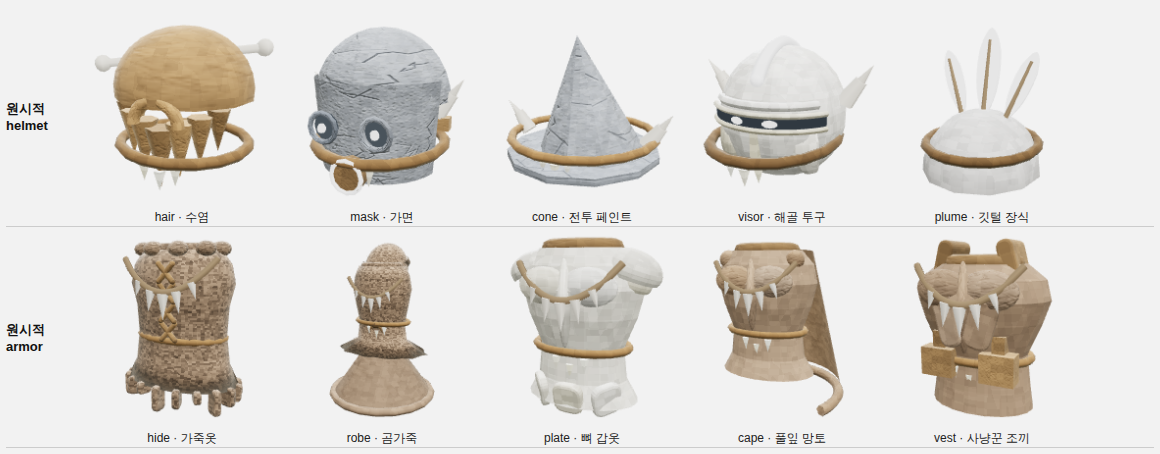
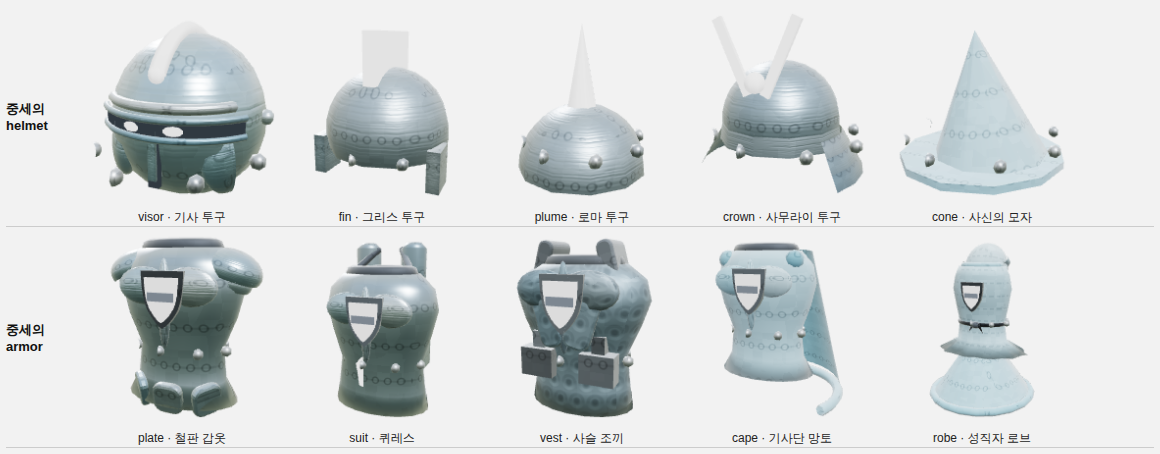
사슬 조끼를 리벳 프린트에서 메일 고리 직물로 — 물질 전용 무늬 키(ageShade 3인자) 신설, 엇갈린 고리+틈 그늘+윗호 하이라이트, 사슬 몸통 어둡게(판금과 명도 분리) (equip-era-theming)

diff --git a/web/js/scene3d.js b/web/js/scene3d.js
@@ -3893,6 +3893,11 @@ const Scene3D = {
         brass: { mode: 'panel', freq: 13, amp: 0.22, vary: 0.040, vfreq: 20 },   // 황동: 각인 격자
         polymer: { mode: 'panel', freq: 10, amp: 0.18, vary: 0.040, vfreq: 20 },   // 폴리머: 패널 심
         alloy: { mode: 'panel', freq: 12, amp: 0.24, vary: 0.040, vfreq: 20, glow: 0x9fe8ff }, // 합금: 심에 냉광
+        // 사슬(물질 'chain' 전용 — 계열 키가 아니라 **무늬 키**로만 쓰인다, ageShade 3번째 인자):
+        // 종전엔 chain 몸통이 계열(forged)의 리벳 무늬를 그대로 물어 '동그라미 한 줄 프린트'로
+        // 읽혔다(1차 채점 B). 사슬은 리벳이 아니라 **엇갈린 고리들이 맞물린 직물**이다 — 행마다
+        // 반 칸 어긋난 고리 + 고리 사이 틈 그늘 + 고리 윗호 하이라이트가 메일의 서명.
+        chain: { mode: 'mail', freq: 16, amp: 0.50, vary: 0.035, vfreq: 20 },
         soft: { mode: 'stitch', freq: 12, amp: 0.26, vary: 0.060, vfreq: 20 },   // 천·가죽: 바늘땀 + 주름
         'soft:primal': { mode: 'stitch', freq: 11, amp: 0.44, vary: 0.070, vfreq: 20, grain: 0.95, grainF: 6.5 }, // 거친 생가죽 — 땀이 굵고 얼룩이 크다(현대 기술섬유와 거칠기가 갈려야 한다)
         'soft:forged': { mode: 'stitch', freq: 12, amp: 0.26, vary: 0.060, vfreq: 20 }, // 모직
@@ -3928,6 +3933,22 @@ const Scene3D = {
             '\tdiffuseColor.rgb *= 1.0 - dAmp * (rRim + rSeam * 0.45);',
             '\tdiffuseColor.rgb += diffuseColor.rgb * dAmp * 0.30 * rHead;',
         ];
+        if (d.mode === 'mail') return [
+            // 메일(사슬 갑옷): 행마다 반 칸 어긋난 고리 격자. 고리 안 구멍은 밑감 그늘로 꺼지고
+            // 고리 자체는 윗호가 빛을 받아 밝고 아랫호가 어둡다 — 이 두 값 대비가 '금속 고리 직물'을
+            // 만든다. 리벳(rivet)과 달리 **전면에 깔리는 게 맞다** — 사슬은 무늬가 아니라 재질 자체다.
+            '\tvec2 muv = uv2 * ' + f(d.freq) + ';',
+            '\tmuv.x += mod(floor(muv.y), 2.0) * 0.5;',
+            '\tvec2 mc = fract(muv) - 0.5;',
+            '\tfloat md = length(mc);',
+            '\tfloat mRing = smoothstep(0.50, 0.40, md) - smoothstep(0.32, 0.22, md);',
+            '\tfloat mHole = smoothstep(0.28, 0.08, md);',
+            '\tfloat mArc = clamp(-mc.y / max(md, 1e-4), 0.0, 1.0);',
+            '\tdiffuseColor.rgb *= 1.0 - dAmp * 0.72 * mHole;',
+            // 고리: 윗호 가산(0.55)·아랫호 감산(0.30) — 제로 평균에 가깝게(grain 모드의 교훈:
+            // 한쪽으로만 밀면 평균 휘도가 내려가 probe-age-shading 의 재질분리가 무너진다)
+            '\tdiffuseColor.rgb *= 1.0 + dAmp * mRing * (mArc * 0.85 - 0.30);',
+        ];
         if (d.mode === 'panel') {
             const g = d.glow !== undefined ? new THREE.Color(d.glow) : null;
             const out = [
@@ -3958,15 +3979,17 @@ const Scene3D = {
             '\tdiffuseColor.rgb *= 1.0 + dAmp * ' + f(d.grain * 2.0) + ' * (sGrain - 0.5);',
         ] : []);
     },
-    ageShade(mat, kind) {
+    // dkey — 무늬만 계열과 다르게 갈 때(물질 전용 무늬, 예: 사슬 'chain'). 셰이딩 프로파일은 계열 것.
+    ageShade(mat, kind, dkey) {
         const p = this.AGE_SHADE[kind] || (String(kind).indexOf('soft:') === 0 ? this.AGE_SHADE.soft : null);
         if (!mat || !p || !mat.isMeshStandardMaterial) return mat;
         const wc = new THREE.Color(p.wearCol);
         const f = n => n.toFixed(4);
         mat.userData = mat.userData || {};
         mat.userData.ageShade = kind;          // tintOf 가 파생 재질에 재적용하려고 남긴다
-        const d = this.AGE_DETAIL[kind] || (String(kind).indexOf('soft:') === 0 ? this.AGE_DETAIL.soft : null);
-        mat.customProgramCacheKey = () => 'ageshade-' + kind;
+        mat.userData.ageShadeDetail = dkey || null;
+        const d = this.AGE_DETAIL[dkey || kind] || (String(kind).indexOf('soft:') === 0 ? this.AGE_DETAIL.soft : null);
+        mat.customProgramCacheKey = () => 'ageshade-' + kind + (dkey ? '-' + dkey : '');
         mat.onBeforeCompile = (sh) => {
             sh.vertexShader = 'varying vec3 vAgeWN;\nvarying vec3 vAgePos;\n' + sh.vertexShader.replace(
                 '#include <beginnormal_vertex>',
@@ -4072,7 +4095,8 @@ const Scene3D = {
         const tone = (hex, t) => new THREE.Color(hex).lerp(ac, t === undefined ? 0.22 : t);
         // 물질로 갈아끼운 body 도 **시대 셰이딩은 그대로 탄다** — 안 그러면 이름 있는 장비만
         // 에지 웨어·크레비스가 빠져 한 목록 안에서 셰이딩이 갈린다(시대 계열은 base.kind 가 안다).
-        const std = o => this.ageShade(new THREE.MeshStandardMaterial(o), base.kind);
+        // 두 번째 인자 = 물질 전용 무늬 키(선택) — 계열 무늬가 물질과 어긋날 때만 준다(사슬).
+        const std = (o, dkey) => this.ageShade(new THREE.MeshStandardMaterial(o), base.kind, dkey);
         const rock = ProChar.rockTex(), leather = ProChar.leatherTex(), metal = ProChar.metalTex();
         let body = null, dark = null;
         switch (sub) {
@@ -4088,8 +4112,11 @@ const Scene3D = {
             case 'leather':
                 body = std({ color: tone(0x8a5a33), map: leather, bumpMap: leather, bumpScale: 0.018, metalness: 0.03, roughness: 0.87, envMapIntensity: 0.25 });
                 break;
-            case 'chain': // 사슬: 잔 고리가 빛을 흩어 판금보다 거칠고 어둡다
-                body = std({ color: tone(0x9aa4ae), map: metal, bumpMap: metal, bumpScale: 0.03, metalness: 0.88, roughness: 0.62, envMapIntensity: 0.6 });
+            case 'chain': // 사슬: 잔 고리가 빛을 흩어 판금보다 거칠고 어둡다.
+                // 무늬는 계열 것(forged=리벳)이 아니라 사슬 전용 'chain'(메일 고리) — 리벳을 그대로
+                // 물리면 '동그라미 한 줄 프린트'로 읽힌다(1차 채점 B). metal 범프는 뺀다(고리 무늬와
+                // 브러시드 결이 겹치면 96px 에서 모아레 노이즈가 된다).
+                body = std({ color: tone(0x7e8792), metalness: 0.86, roughness: 0.58, envMapIntensity: 0.55 }, 'chain');
                 dark = std({ color: 0x2b323a, metalness: 0.7, roughness: 0.66 });
                 break;
             case 'plate':
@@ -4144,7 +4171,7 @@ const Scene3D = {
         if (opt) Object.assign(m, opt);
         // ⚠ THREE.Material.copy() 는 onBeforeCompile 을 복사하지 않는다 — 재적용하지 않으면
         //    파생 재질(파울드론 아랫장·파울드·커프…)만 시대 셰이딩이 빠져 한 모델 안에서 갈린다.
-        if (base.userData && base.userData.ageShade) this.ageShade(m, base.userData.ageShade);
+        if (base.userData && base.userData.ageShade) this.ageShade(m, base.userData.ageShade, base.userData.ageShadeDetail);
         return m;
     },
 
